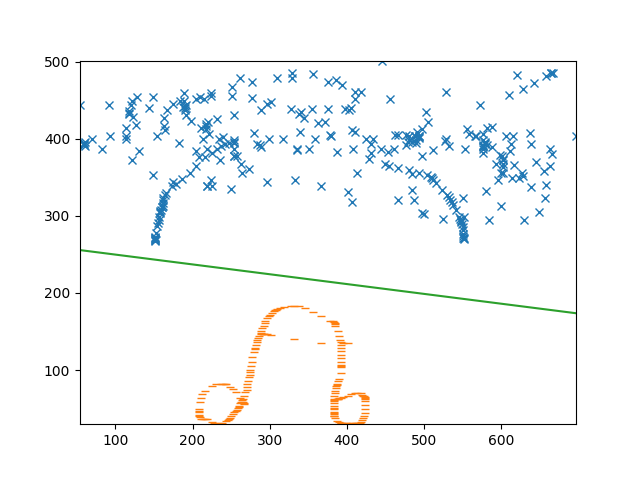
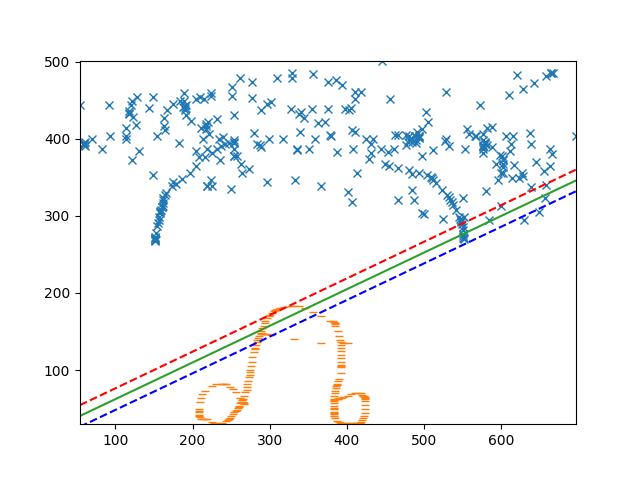
Fixes StochasticGradientDescent with correct update function. Adds comments on how to align sizes of positive and negative datapoints

diff --git a/Ch1/plotting.py b/Ch1/plotting.py
@@ -1,21 +1,27 @@
 from data_def import xpos, xneg, x_def, y_def
 import matplotlib.pyplot as plt
 from Perceptron import perceptron
+from StochasticGradientDescend import stochastic_gradient_descend
 import random 
 
 decision_boundary_limits = [min(map(lambda x: x[0], x_def)), max(map(lambda x: x[0], x_def))]
 decision_boundary_x2 = lambda x, theta, theta0: -theta[0]/theta[1] * x - theta0/theta[1]
+positive_margin_boundary_x2 = lambda x, theta, theta0: -theta[0]/theta[1] * x + ( 1 - theta0)/theta[1]
+negative_margin_boundary_x2 = lambda x, theta, theta0: -theta[0]/theta[1] * x + (-1 - theta0)/theta[1]
 
 xy = list(zip(x_def,y_def))
 random.shuffle(xy)
 x_def, y_def = list(zip(*xy))
 
-theta, theta0 = perceptron(x_def, y_def,max_iter=10000)
+# theta, theta0 = perceptron(x_def, y_def,max_iter=10000)
+theta, theta0 = stochastic_gradient_descend(x_def, y_def,max_iter=100_000, R_lambda=1)
 
 plt.plot(list(map(lambda x: x[0], xpos)),list(map(lambda x: x[1], xpos)), linestyle='None', marker='x')
 plt.plot(list(map(lambda x: x[0], xneg)),list(map(lambda x: x[1], xneg)), linestyle='None', marker='_')
 # move decision boundary by correct amount depending on the value of theta0
 plt.plot([decision_boundary_limits[0], decision_boundary_limits[1]], [decision_boundary_x2(decision_boundary_limits[0], theta, theta0), decision_boundary_x2(decision_boundary_limits[1], theta, theta0)], label='Decision boundary')
+plt.plot([decision_boundary_limits[0], decision_boundary_limits[1]], [positive_margin_boundary_x2(decision_boundary_limits[0], theta, theta0), positive_margin_boundary_x2(decision_boundary_limits[1], theta, theta0)], label='Positive Margin Boundary', linestyle='--', color = 'r')
+plt.plot([decision_boundary_limits[0], decision_boundary_limits[1]], [negative_margin_boundary_x2(decision_boundary_limits[0], theta, theta0), negative_margin_boundary_x2(decision_boundary_limits[1], theta, theta0)], label='Negative Margin Boundary', linestyle='--', color = 'b')
 
 # plt.legend(location='northwest')
 plt.axis('square')
@@ -23,4 +29,5 @@ plt.xlim(decision_boundary_limits)
 plt.ylim([min(map(lambda x: x[1], x_def)), max(map(lambda x: x[1], x_def))])
 
 print(theta, theta0)
+print(f"y = {-theta[0]/theta[1]:.2f} x {- theta0/theta[1]:+.2f}")
 plt.savefig('./lol1.png')

diff --git a/Ch1/StochasticGradientDescend.py b/Ch1/StochasticGradientDescend.py
@@ -6,18 +6,22 @@ eucl = lambda x: norm(x, 2)
 
 def stochastic_gradient_descend(X: tuple[int, int], Y: int, max_iter=40, R_lambda=1):
     hinge_loss = lambda z: max(0, 1 - z)
-    xy_points = zip(X, Y)
     theta = [0] * len(X[0])
     theta0 = 0
     for t in range(max_iter):
         learning_rate = 1/(1+t)
-        xi, yi = random.choice(xy_points)
+        i = random.randint(0,len(X)-1)
+        xi, yi = X[i], Y[i]
+        norm_theta = eucl(theta)
         if hinge_loss(yi*(dot(theta, xi) + theta0)) > 0:
-            theta += learning_rate * ( xi*yi - R_lambda * eucl(theta))
-            theta0 += yi
+            theta = list(map(lambda theta, xi: 
+                theta  + learning_rate * (yi*xi - R_lambda * theta), 
+                theta, xi))
+            theta0 += learning_rate * yi
         else:
-            theta += learning_rate * (   0   - R_lambda * eucl(theta))
-
+            theta = list(map(lambda theta, xi: 
+                theta  + learning_rate * (0 - R_lambda * theta), 
+                theta, xi))
     return theta, theta0
 
 

diff --git a/Ch1/data_def.py b/Ch1/data_def.py
@@ -1,9 +1,15 @@
 # Go to drawdata.xyz to draw the datapoints
+import random
 
 with open('./data2.csv', 'r') as file:
     lines = [line.rstrip().split(',') for line in file.readlines()]
     xpos = [(int(col[0]), int(col[1])) for col in lines if col[2] == 'a']
     xneg = [(int(col[0]), int(col[1])) for col in lines if col[2] == 'b']
+
+# Ensure equal numbers of negative and positive points:
+# m = min(len(xpos), len(xneg))
+# xpos, xneg = zip(*random.sample(list(zip(xpos, xneg)), m))
+
 
 y_def = [1] * len(xpos) + [-1] * len(xneg)
 x_def = xpos + xneg
